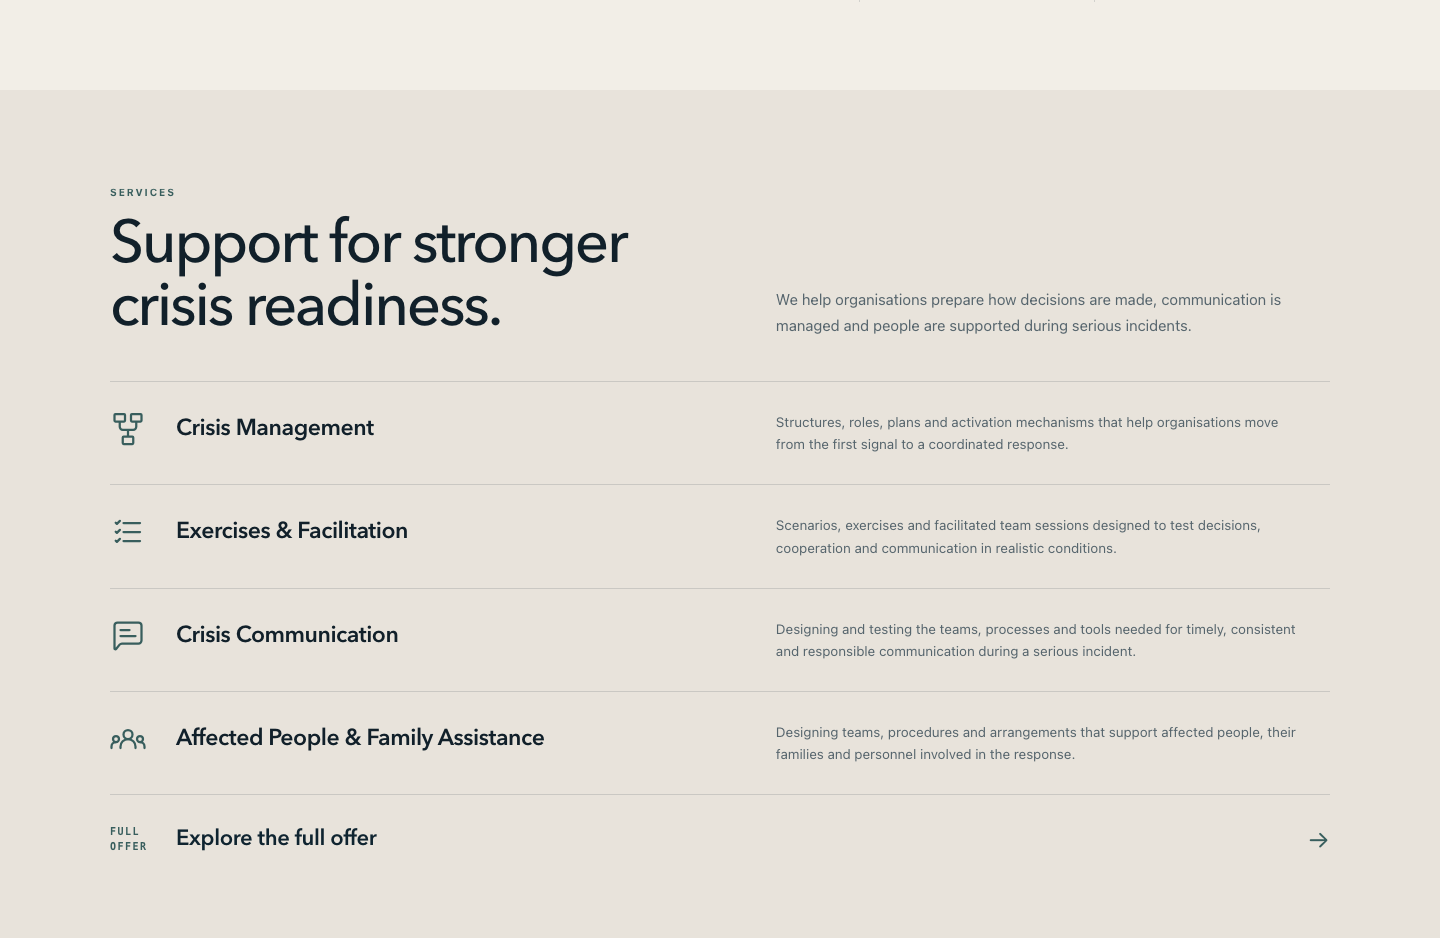
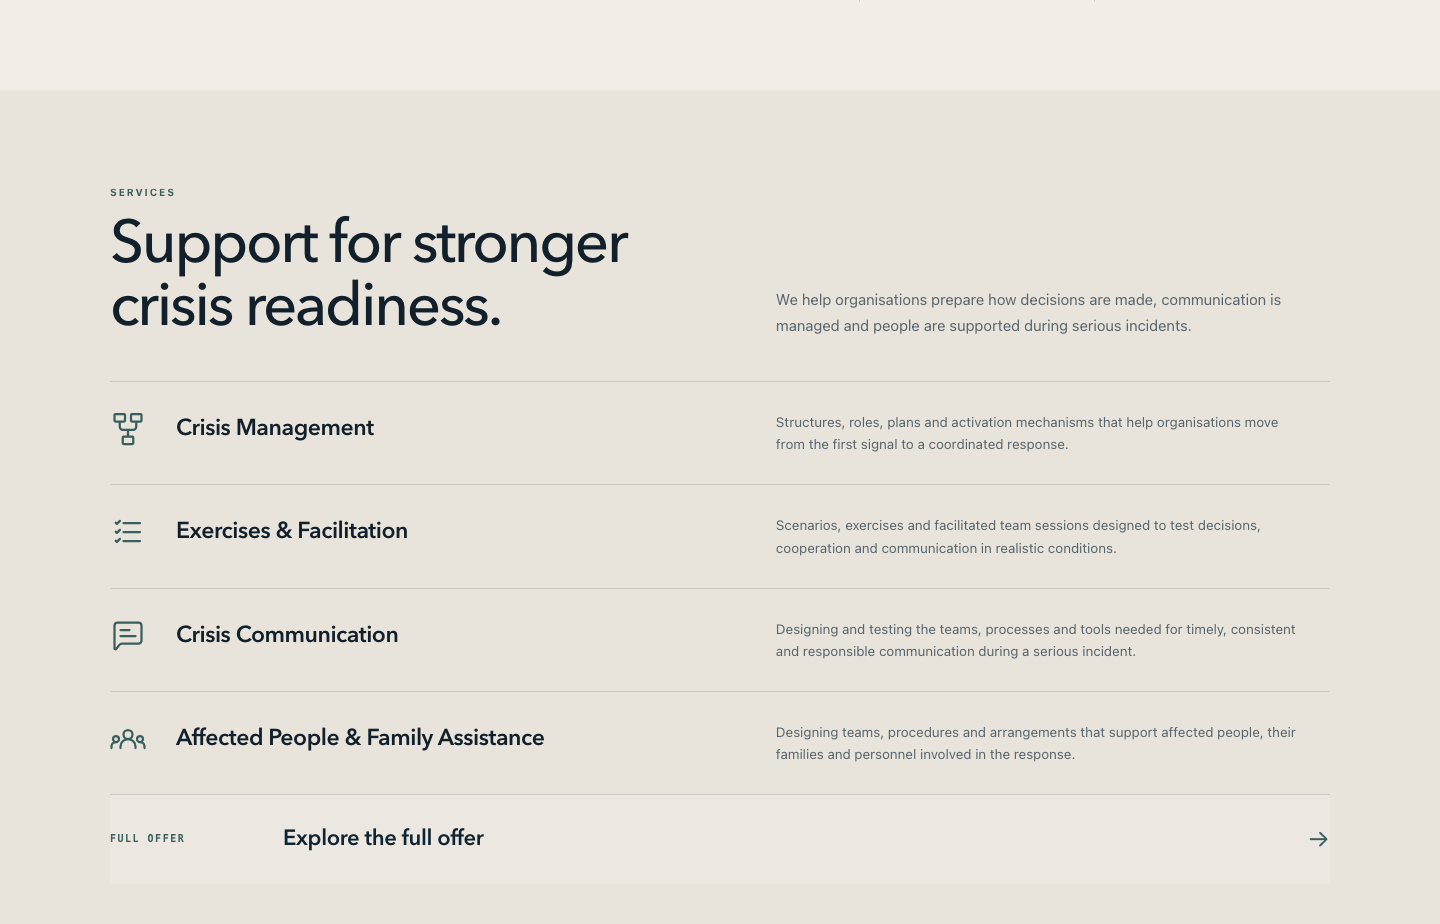
style: strengthen homepage offer CTA hierarchy

diff --git a/src/styles/global.css b/src/styles/global.css
@@ -742,7 +742,7 @@ summary:focus-visible {
 /* Homepage — services */
 
 .services-section {
-  padding: 95px 0 80px;
+  padding: 95px 0 42px;
   background: var(--paper-2);
 }
 
@@ -810,10 +810,12 @@ summary:focus-visible {
 
 .services-cta-rail {
   display: grid;
-  grid-template-columns: 48px minmax(0, 1fr) auto;
+  grid-template-columns: 145px minmax(0, 1fr) auto;
   align-items: center;
-  gap: 18px;
-  padding: 29px 0 4px;
+  gap: 28px;
+  padding: 30px 0;
+  background: color-mix(in srgb, var(--paper-2) 60%, var(--paper) 40%);
+  transition: background-color 180ms ease;
 }
 
 .services-cta-label {
@@ -824,6 +826,7 @@ summary:focus-visible {
   letter-spacing: 0.15em;
   line-height: var(--type-utility-line);
   text-transform: uppercase;
+  white-space: nowrap;
 }
 
 .services-cta-text {
@@ -845,6 +848,10 @@ summary:focus-visible {
 
 .services-cta-rail:hover .services-cta-text {
   color: var(--teal-deep);
+}
+
+.services-cta-rail:hover {
+  background: color-mix(in srgb, var(--paper-2) 42%, var(--paper) 58%);
 }
 
 .services-cta-rail:hover .services-cta-arrow {
@@ -3284,7 +3291,11 @@ summary:focus-visible {
       "text arrow";
     grid-template-columns: minmax(0, 1fr) auto;
     gap: 13px 18px;
-    padding: 27px 0 2px;
+    padding: 27px 0;
+  }
+
+  .services-section {
+    padding-bottom: 38px;
   }
 
   .services-cta-label {
